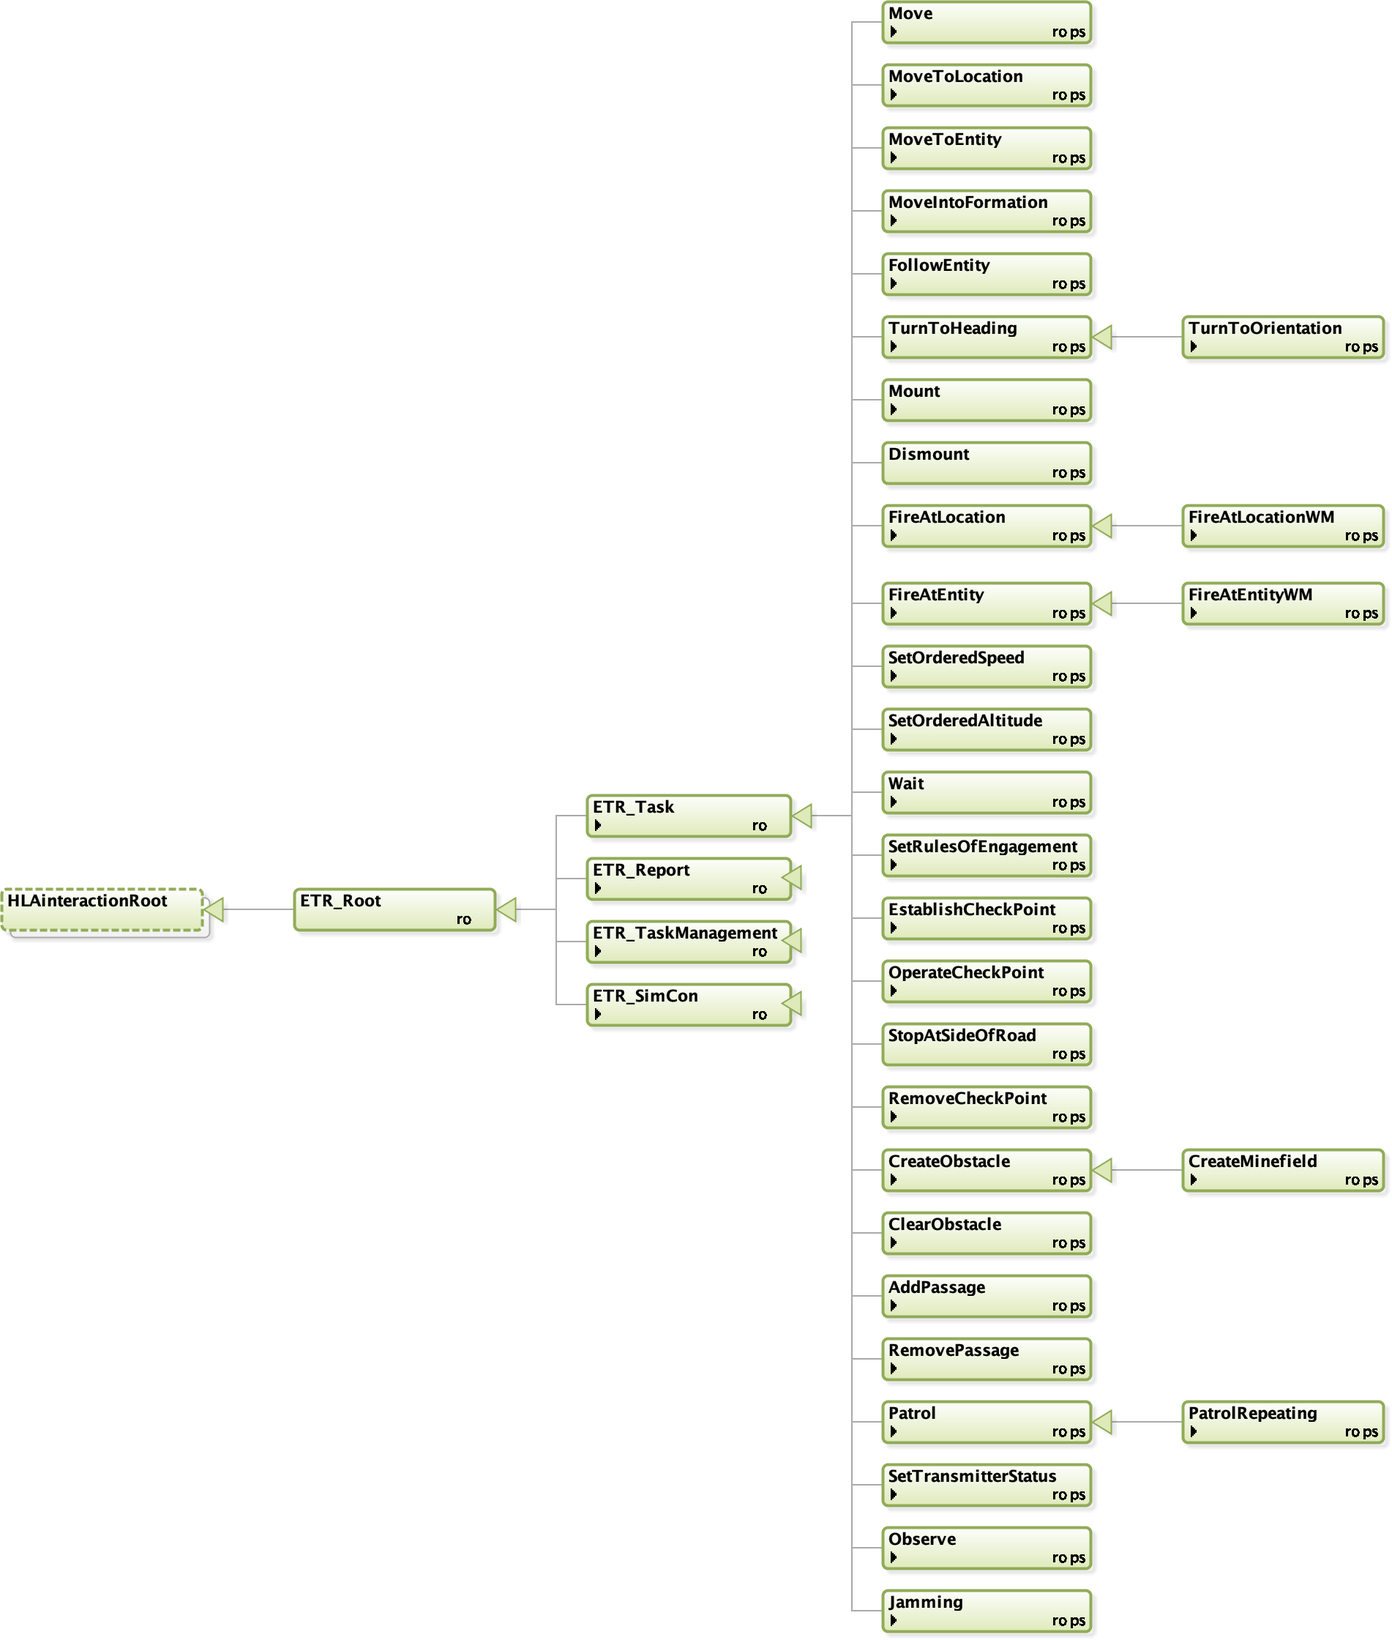
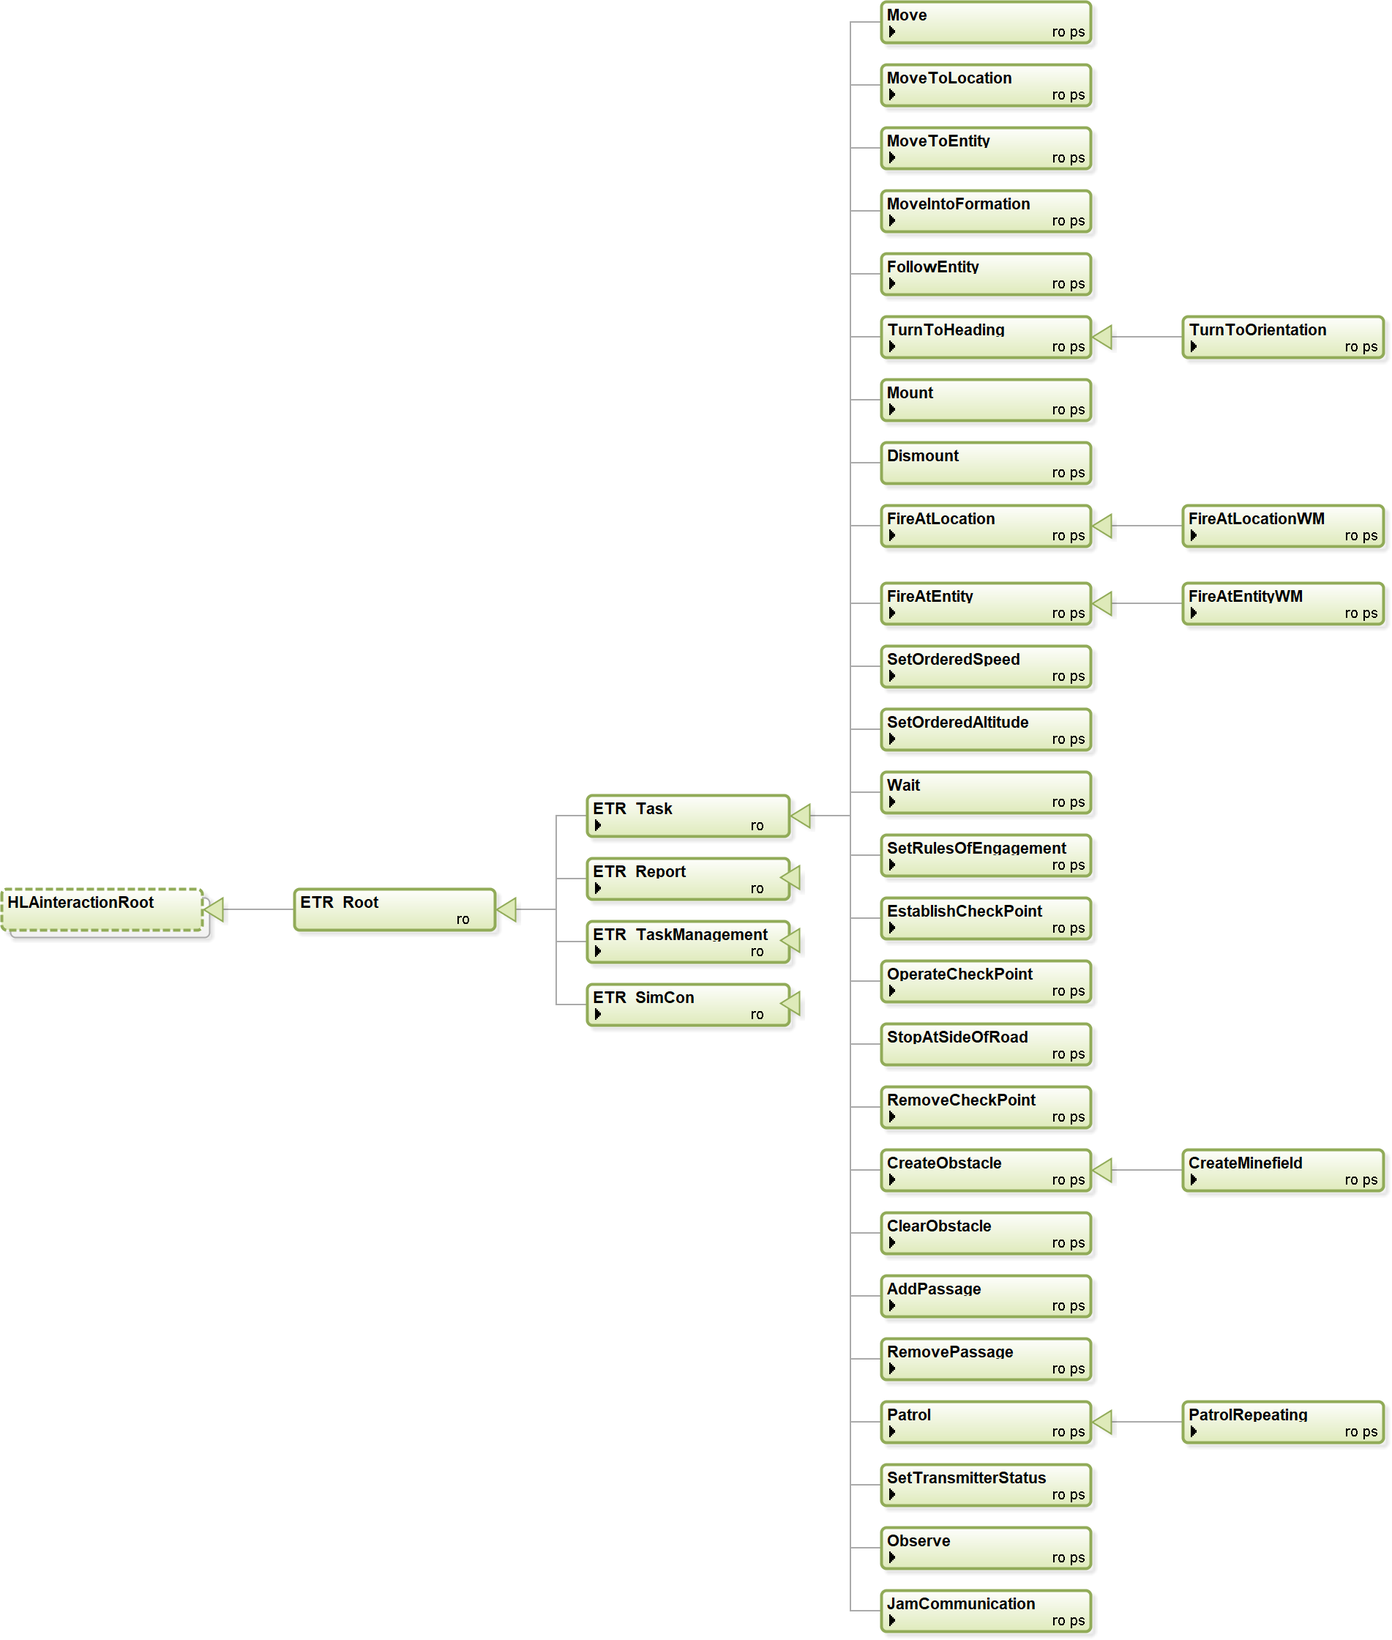
Fixes to: https://github.com/AMSP-04/NETN-ETR/issues/21 and https://github.com/AMSP-04/NETN-ETR/issues/19.

diff --git a/NETN-ETR.md b/NETN-ETR.md
@@ -4,9 +4,7 @@ Copyright (C) 2020 NATO/OTAN.
 This work is licensed under a [Creative Commons Attribution-NoDerivatives 4.0 International License](LICENCE.md).
 
 ## Introduction
-
 This module is a specification of how to represent simulation tasks requests provided to participants in a federated distributed simulation and simulator reports sent during the execution of tasks. The specification is based on IEEE 1516 High Level Architecture (HLA) Object Model Template (OMT) and primarily intended to support interoperability in a federated simulation (federation) based on HLA. An HLA OMT based Federation Object Model (FOM) is used to specify types of data and how it is encoded on the network. The NETN ETR FOM module is available as an XML file for use in HLA based federations.
-        
 
 ### Purpose
 The NETN ETR module provides a common standard interface for sending tasks to simulated entities represented in a federated distributed simulation. ETR contains common low-level tasks that can easily be interpreted and executed by simulators that model the behaviour of entities. It also defines a set of reports to provide status information, including the status of the tasks being executed by simulated entities.
@@ -21,7 +19,6 @@ The NETN ETR FOM module is simulation oriented and focuses on tasks with a fine 
 * It is independent of any specific doctrine or tactics.
 
 An entity in ETR can be either a physical entity (e.g. platform or lifeform) or an aggregate entity. If a task or report relates to only a physical entity or to only an aggregate entity, then this is specified in the definition of the task. In the definition of each task, it is not specified how an entity (physical or aggregate) will / should perform the task.
-	
 
 ## Overview
 The interaction classes are organized in a root class and four base classes: `ETR_Task`, `ETR_Report`, `ETR_TaskManagement`, and `ETR_SimCon`. 
@@ -33,43 +30,40 @@ The interaction classes are organized in a root class and four base classes: `ET
 * `ETR_SimCon`: A base interaction class for more specialized Simulation Control (SimCon) interaction classes
 
 <img src="./images/etr_baseclasses.png" width="75%"/>
-      
-	
-	
-### Entity Tasks
 
+### Entity Tasks
 This section summarizes the Entity Task interaction classes in the ETR FOM module.
 
 <img src="./images/etr_task.png" width="90%"/>
 
 |Task|Description|
 |---|---|
-|Move|Tasks an entity to move in the specified direction for the given duration.|
-|MoveToLocation|Tasks an entity to move to the specified location.|
-|MoveToEntity|Tasks an entity to move to another entity.|
-|MoveIntoFormation|Tasks an aggregate entity to move into the given formation with the given heading.|
-|FollowEntity|Tasks an entity to follow another entity.|
-|TurnToHeading|Tasks an entity to turn to the specified heading.|
-|Mount|Task the entity to mount in the specified entity. The taskee entiity should be within a certain distance tolerance of the entiity to mount into. this tolerance must be specified in the federation agreements. Mount includes: embark (vessel), board (plane), and so on.|
-|Dismount|Task the entity to dismount from the entity where it is in.|
-|FireAtLocation|Tasks an entity to fire at a location.|
-|FireAtEntity|Tasks an entity to fire at another specified entity.|
-|SetOrderedSpeed|Set/Change the ordered speed. Usually sent in ConcurrentMode to adjust the current move task.|
-|SetOrderedAltitude|Set/Change the ordered altitude for a flying entity. Usually sent in ConurrentMode to adjust the current move task.|
-|Wait|Tasks an entity to wait a defined duration.|
-|SetRulesOfEngagement|Change the rules of engagment for an entity.|
-|EstablishCheckPoint|The task defines a location where a checkpoint shall be established and then operated. |
-|OperateCheckPoint|The task activates a deactivated check point. |
-|StopAtSideOfRoad|Tasks an entity to stop at the side of the road. This task is only relevant for an entity that is moving along a road to a destination. The executing move task is canceled and a new move is defined to a position at the side of the road (the simulator has to calculate this location).|
-|RemoveCheckPoint|This task removes the checkpoint that is generated in the EstablishCheckpoint task. |
-|CreateObstacle|Tasks an entity to create an obstacle with the given geometry. |
+|Move|Task entity to move in the specified direction for the given duration.|
+|MoveToLocation|Task entity to move to the specified location.|
+|MoveToEntity|Task entity to move to another entity.|
+|MoveIntoFormation|Task aggregate entity to move into the given formation with the given heading.|
+|FollowEntity|Task entity to follow another entity.|
+|TurnToHeading|Task entity to turn to the specified heading.|
+|Mount|Task entity to mount in the specified entity. The taskee should be within a certain distance tolerance of the entiity to mount into. this tolerance must be specified in the federation agreements. Mount includes: embark (vessel), board (plane), and so on.|
+|Dismount|Task entity to dismount from the entity where it is in.|
+|FireAtLocation|Task entity to fire at a location.|
+|FireAtEntity|Task entity to fire at another specified entity.|
+|SetOrderedSpeed|Task entity to set the ordered speed.|
+|SetOrderedAltitude|Task entity to set the ordered altitude.|
+|Wait|Task entity to wait a defined duration.|
+|SetRulesOfEngagement|Task entity to change the rules of engagement.|
+|EstablishCheckPoint|Task entity to establish a checkpoint. The task defines a location where a checkpoint shall be established and then operated. |
+|OperateCheckPoint| Task entity to operate a checkpoint. The task activates a deactivated check point. |
+|StopAtSideOfRoad|Task entity to stop at the side of the road. This task is only relevant for an entity that is moving along a road to a destination. The executing move task is canceled and a new move is defined to a position at the side of the road (the simulator has to calculate this location).|
+|RemoveCheckPoint|Task entity to remove a checkpoint. This task removes the checkpoint that is generated in the EstablishCheckpoint task. |
+|CreateObstacle|Task entity to create an obstacle with the given geometry. |
 |ClearObstacle|Task an entity to clear the obstacle or minefield with the given ID. The taskee entiity should be within a certain distance tolerance (specified in the federation aggrement) of one of the points of the geometry of the obstacle to make the task possible.|
-|AddPassage|Tasks an entity to lay/build a passage between the two given points. The passage can for example be a passage through an obstacle or a bridge over a river. The taskee entiity should be within a certain distance tolerance (specified in the federation aggrement) of one of the points of the passage to make the task possible. |
-|RemovePassage|Tasks an entity to remove the pasasage with the given ID. The taskee entiity should be within a certain distance tolerance (specified in the federation aggrement) of one of the points of the passage to make the task possible.|
-|Patrol|Defines a patrol, covering the path from the current location to the  start point of the patrol route, and the patrol route itself. The patrol route will be followed from start to end. The entity behaviour at the end point depends on the patrol type.|
+|AddPassage|Task entity to lay/build a passage between the two given points. The passage can for example be a passage through an obstacle or a bridge over a river. The taskee entiity should be within a certain distance tolerance (specified in the federation aggrement) of one of the points of the passage to make the task possible. |
+|RemovePassage|Task entity to remove the pasasage with the given ID. The taskee entiity should be within a certain distance tolerance (specified in the federation aggrement) of one of the points of the passage to make the task possible.|
+|Patrol|Task entity to perform a patrol. The patrol covers the path from the current location to the start point of the patrol route, and the patrol route itself. The patrol route shall be followed from start to end. The entity behaviour at the end point depends on the patrol type.|
 |SetTransmitterStatus|Task entity to switch on/off all of its transmitters.|
-|Observe|Observation to cover area with sensors. |
-|Jamming|Jamming of a communication network in a specified area.|
+|Observe|Task entity to observe an area with sensors. |
+|JamCommunication|Task entity to jam a communication network in a specified area.|
 
 
 ### Entity Reports
@@ -95,6 +89,8 @@ This section summarizes the Task Management interaction classes in the ETR FOM m
 |CancelSpecifiedTasks|Cancel all specified tasks. Tasks already started are also cancelled.|
 |CancelAllTasks|Cancel all tasks. Tasks already started are also cancelled.|
 |TaskStatusReport|A report about the status of a task given to an entity. The status of the task defined by the TaskId can be: Accepted, Refused, Cancelled, Executing, Completed or Error.|
+|QueryCapabilitiesSupported|Query an entity which tasks and reports it supports. The taskee shall respond with a CapabilitiesSupported message.|
+|CapabilitiesSupported|Provide the set of tasks and reports that the entity supports. This interaction is in response to a QueryCapabilitiesSupported, using the same Taskee and Tasker.|
 
 
 ### Simulation Control
@@ -106,8 +102,6 @@ This section summarizes the Simulation Control interaction classes in the ETR FO
 |---|---|
 |MagicMove|Place the entity to the specified location with a given heading. All given task of the entity are cancelled.|
 |MagicResource|Changes the resource amount of the entity.|
-|QueryCapabilitiesSupported|Query which ETR tasks and ETR reports that the entity supports. The taskee shall respond with a CapabilitiesSupported message.|
-|CapabilitiesSupported|Provide the set of ETR tasks and ETR reports that the entity supports. This interaction is in response to a QueryCapabilitiesSupported, using the same Taskee and Tasker.|
 
 ## ETR Task Handling
 
@@ -117,11 +111,11 @@ The following sections define how tasks shall be handled.
 
 The ETR FOM module defines two modes for a task: non-concurrent mode and concurrent mode.
 
-In the non-concurrent mode, the task is placed on the task list for the entity, which serves as a waiting list. Once the task is at the head of the task list, and the currently executing task completes, it is removed from the task list and started. Using this task mode, tasks are executed one after the other.
+In the non-concurrent mode the task is placed on the non-concurrent task list for the entity, which serves as a waiting list. Once the task is at the head of the task list, and the currently executing task completes, it is removed from the non-concurrent task list and started. Using this task mode, tasks are executed one after the other.
 
-In the concurrent mode, the task is executed concurrently with other tasks. With this task mode, there is no task list involved.
+In the concurrent mode the task is placed on the concurrent task list for the entity. This list also serves as a waiting list. Once the task is at the head of the task list and it can execute concurrently with already executing tasks, it is removed from the task list and started.
 
-The mode value is provided for each task. So, at any point in time, an entity has zero or more concurrent mode tasks executing and at most one non-concurrent mode task executing, with zero or more non-concurrent mode tasks waiting on the task list.
+When no task is executed the task at the head of the non-concurrent task list has a higher priority to start then the task at the head of the concurrent task list.
 
 ### ETR Task States
 
@@ -138,13 +132,12 @@ The task state diagram is shown below.
 #### Received State
 A task in the Received state shall be handled in the following way:
 
-1. Determine if the task is supported. The determination is made by the federate application in accordance with section 8.4.3.
+1. Determine if the task is supported. The determination is made by the federate application in accordance with [Entity Task and Reporting Capabilities](#Entity Task and Reporting Capabilities).
 2. If the task is not supported then
     * A `TaskStatusReport` (refused) shall be returned to the Tasker.
     * The task is removed.
 3. Else
-    * For a non-concurrent mode task:
-        * The task shall be placed in the entity task list in accordance with section 8.3.3.
+    * The task shall be placed in either the non-concurrent task list or the concurrent task list depending on the task mode, in accordance with [Task List Ordering](#Task List Ordering).
     * A `TaskStatusReport` (accepted) shall be returned to the Tasker.
     * The task shall transition to the Waiting state.
 
@@ -152,17 +145,17 @@ A task in the Received state shall be handled in the following way:
 A task in the Waiting state shall be handled in the following way:
 1.	Determine if the task can start using the following conditions:
     * For a non-concurrent mode task:
-        * The task’s taskee is not executioning a task, and
-        * The task is at head of the task list, and
+        * The task is at head of the non-concurrent task list, and
+        * The task’s taskee is not executing a task, and
         * The task has no `StartWhen` time (i.e. the StartWhen is undefined), or the task has a StartWhen time and this time is less than or equal to the current time.
     * For a concurrent mode task:
+        * The task is at the head of the concurrent task list and
         * The task has no `StartWhen` time (i.e. the StartWhen is undefined), or the task has a StartWhen time and this time is less than or equal to the current time, and
-        * The task does not conflict with other executing tasks (see section 8.3.4).
+        * The task does not conflict with other executing tasks, see [Concurrent Tasks](#Concurrent Tasks).
 2.	If the task can start then
-    * For a non-concurrent mode task:
-        * The task shall be removed from the task list.
-        * A `TaskStatusReport` (executing) shall be returned to the Tasker.
-        * The task shall transition to the Executing state.
+    - The task shall be removed from the task list.
+    - A `TaskStatusReport` (executing) shall be returned to the Tasker.
+    - The task shall transition to the Executing state.
 3.	Else
     * The task shall remain in the Waiting state, even if the current time has passed the time specified in the `StartWhen` parameter of the task.
 
@@ -177,7 +170,7 @@ A task in the Executing state shall be handled in the following way:
     * The task shall remain in the Executing state.
 
 #### TaskStatus State
-A task in the TaskStatus state shall be handled as specified in the substates, and also in the following way:
+A task in the TaskStatus state shall be handled as specified in the sub states, and also in the following way:
 
 1.	If the task is cancelled by either a `CancelAllTasks` or `CancelSpecifiedTask` then
     * A `TaskStatusReport` (cancelled) shall be returned to the Tasker.
@@ -186,8 +179,9 @@ A task in the TaskStatus state shall be handled as specified in the substates, a
     * A `TaskStatusReport` (error) shall be returned to the Tasker and a description of the error shall be included in the message.
     * The task is removed.
 
-### Task List Order
-Each entity has a task list for non-concurrent mode tasks. The task at the head of the list is the first task to be started once the currently executing task completes. The ordering of tasks in the task list shall be according to the following figure.
+### Task List Ordering
+
+Each entity has a non-concurrent task list for tasks in non-concurrent mode and a concurrent task list for tasks in concurrent mode. The task at the head of the non-concurrent task list is the first task to be started once all currently executing tasks are completed. The task at the head of the concurrent task list is the first task to be started when it can run concurrently with all executing tasks or when all currently executing tasks are completed. The ordering of the tasks in both  list shall be according to the following figure.
 
 <img src="./images/etr_tasklist.png" width="85%"/>
 
@@ -199,38 +193,46 @@ A task shall be placed in the task list as follows:
 2.	If the StartWhen time of the task is not specified then the task shall be placed at the tail of the right part of the task list.
 
 ###	Concurrent Tasks
-The following table defines which tasks for the same entity can execute concurrently. The table shows which tasks can transition from the Waiting state to the Execution state given another task that is already in Execution state for the same entity. 
 
-|Number|Task in Execution state|Tasks allowed to go to Execution state|
-|---|---|---|
-|1|Move|6, 7, 10, 11, 12, 13, 14, 15, 17, 22|
-|2|MoveToLocation|10, 11, 12, 13, 14, 15, 17, 22|
-|3|MoveToEntity|10, 11, 12, 13, 14, 15, 17, 22|
-|4|MoveIntoFormation|10, 11, 12, 13, 14, 15, 17|
-|5|FollowEntity|10, 11, 12, 13, 14, 15, 17|
-|6|TurnToHeading|1|
-|7|TurnToOrientation|1|
-|8|MountVehicle| |
-|9|DismountVehickle| |
-|10|FireAtLocation|1, 2, 3, 4, 5, 18, 19|
-|11|FireAtLocationWM|1, 2, 3, 4, 5, 18, 19|
-|12|FireAtEntity|1, 2, 3, 4, 5, 18, 19|
-|13|FireAtEntityWM|1, 2, 3, 4, 5, 18, 19|
-|14|SetOrderedSpeed|1, 2, 3, 4, 5, 18, 19|
-|15|SetOrderedAltitude|1, 2, 3, 4, 5, 18, 19|
-|16|Wait| |
-|17|SetRulesOfEngagement|1, 2, 3, 4, 5, 18, 19|
-|18|Patrol|10, 11, 12, 13, 14, 15, 17|
-|19|PatrolRepeating|10, 11, 12, 13, 14, 15, 17|
-|20|EstablishCheckPoint| |
-|21|OperateCheckPoint| |
-|22|StopAtSideOfRoad|1, 2, 3|
-|23|RemoveCheckPoint| |
-|24|CreateObstacle| |
-|25|CreateMinefield| |
-|26|ClearObstacle| |
-|27|AddPassage| |
-|28|RemovePassage| |
+In order to define which tasks can run concurrently, we divide the tasks in four task groups:
+
+| Movement group    | Weapon group     | SetAction group      | Single group |
+| ----------------- | ---------------- | -------------------- | ------------ |
+| Move              | FireAtLocation   | SetOrderedSpeed      | Mount              |
+| MoveToLocation    | FireAtLocationWM | SetOrderedAltitude   | Dismount             |
+| MoveToEntity      | FireAtEntity     | SetRulesOfEngagement | EstablishCheckPoint             |
+| MoveIntoFormation | FireAtEntityWM   | SetTransmitterStatus | OperateCheckPoint             |
+| FollowEntity      |                  | JamCommunication | RemoveCheckPoint             |
+| TurnToHeading     |                  |                      |  CreateObstacle            |
+| TurnToOrientation |                  |                      | CreateMinefield             |
+| Wait              |                  |                      |   ClearObstacle           |
+| Patrol            |                  |                      | AddPassage             |
+| PatrolRepeating   |                  |                      | RemovePassage             |
+| StopAtSideOfRoad  |                  |                      |              |
+| Observe | | | |
+
+There are the following restrictions regarding concurrency:
+
+1. Movement group:
+   1. Only one task in this group can be executed at the same time.
+   2. A task in this group can run together with a task in the Weapon or SetAction group.
+
+2. Weapon group:
+
+  1.	Only one task in this group can be executed at the same time.
+  2.	A task in this group can run together with a task in the Movement or SetAction group.
+
+3. SetAction group:
+
+  1.	Multiple tasks in this group can be executed at the same time.
+  2.	A task in this group can run together with a task in the Movement or Weapon group.
+
+4. Single group:
+
+  1.	Only one task in this group can be executed at the same time.
+  2.	A task in this group can not run together with a task in another group.
+
+So, several tasks can be executed at the same time. For example a Patrol, SetOrderedSpeed and FireAtEntity; or a MoveToLocation, SetOrderedAltitude and FireAtLocation. A FireAtEntity task can be timed while executing a MoveToLocation task by using the StartWhen time. It is also possible to change the speed or altitiude after a certain time during a movement by using the StartWhen time for the SetOrderedSpeed or SetOrderedAltitude task.
 
 ## ETR SimCon Handling
 A Simulation Control message for an entity shall be executed immediately, regardless of the presence of any (concurrent or non-concurrent) executing task.
